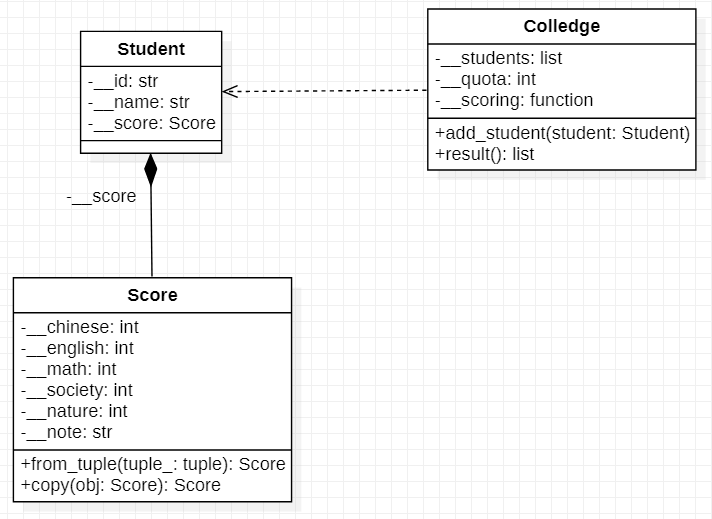
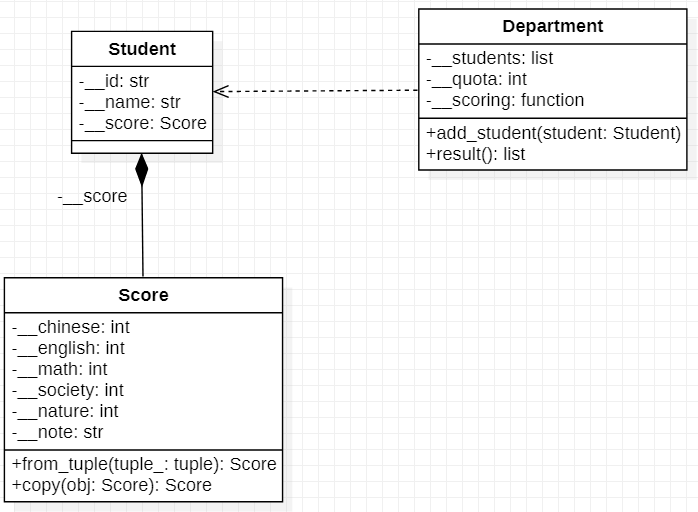
update p3

Changed region(s): [[0.0903, 0.0, 0.9928, 0.4062], [0.0, 0.5312, 0.4212, 1.0], [0.1805, 0.4062, 0.2407, 0.5]]

diff --git a/sample_code/p3/student.py b/sample_code/p3/student.py
@@ -1,0 +1,113 @@
+class Score:
+    def __init__(self, chinese, english, math, society, nature, note=''):
+        self.__chinese = chinese
+        self.__english = english
+        self.__math = math
+        self.__society = society
+        self.__nature = nature
+        self.__note = note
+        
+    @classmethod
+    def from_tuple(cls, tuple_):
+        return cls(*tuple_)
+    
+    @classmethod
+    def copy(cls, obj):
+        return cls(
+            obj.chinese,
+            obj.english,
+            obj.math,
+            obj.society,
+            obj.nature,
+            obj.note
+        )
+    
+    @property
+    def chinese(self): return self.__chinese
+    
+    @property
+    def english(self): return self.__english
+    
+    @property
+    def math(self): return self.__math
+    
+    @property
+    def society(self): return self.__society
+    
+    @property
+    def nature(self): return self.__nature
+    
+    @property
+    def note(self): return self.__note
+    
+    
+class Student:
+    def __init__(self, id, name, score):
+        self.__id = id
+        self.__name = name
+        self.__score = score
+        
+    @classmethod
+    def from_score_tuple(cls, id, name, tuple_):
+        return cls(id, name, Score.from_tuple(tuple_))
+    
+    # Override
+    def __str__(self):
+        return ('===================\n' +
+                'Score of GSAT      \n' +
+                '-------------------\n' +
+                'Name: %s           \n'%(self.__name) +
+                '  Id: %s           \n'%(self.__id) +
+                '                   \n' +
+                'Chinese: %d        \n'%(self.__score.chinese) +
+                'English: %d        \n'%(self.__score.english) +
+                '   Math: %d        \n'%(self.__score.math) +
+                'Society: %d        \n'%(self.__score.society) +
+                ' Nature: %d        \n'%(self.__score.nature) +
+                '===================\n'
+        )
+        
+    @property
+    def id(self): return self.__id
+    
+    @property
+    def name(self): return self.__name
+    
+    @property
+    def score(self): return Score.copy(self.__score)
+    
+    @property
+    def chinese(self): return self.__score.chinese
+    
+    @property
+    def english(self): return self.__score.english
+    
+    @property
+    def math(self): return self.__score.math
+    
+    @property
+    def society(self): return self.__score.society
+    
+    @property
+    def nature(self): return self.__score.nature
+    
+    @property
+    def note(self): return self.__score.note
+    
+    
+if __name__ == '__main__':
+    score_1 = Score(10, 12, 8, 14, 10)
+    score_1_copy = Score.copy(score_1)
+    print(score_1, score_1_copy, score_1 is not score_1_copy)
+    
+    student_1 = Student('0000000', 'student_1', score_1)
+    print(student_1)
+    
+    tuple_ = (10, 10, 12, 11, 13)
+    score_2 = Score.from_tuple(tuple_)
+    student_2 = Student('11111111', 'ooooo', score_2)
+    print(student_2)
+    
+    tuple_ = (11, 8, 12, 11, 10)
+    student_3 = Student.from_score_tuple('22222222', 'xxx', tuple_)
+    print(student_3)

diff --git a/sample_code/p3/department.py b/sample_code/p3/department.py
@@ -1,0 +1,59 @@
+from student import Student
+
+class Department:
+    def __init__(self, quota, scoring):
+        self.__students = []
+        self.__quota = quota
+        self.__scoring = scoring
+        
+    def add_student(self, student):
+        self.__students.append(student)
+        
+    def result(self):
+        sorted_score = sorted(self.__students, key=lambda s: -self.__scoring(s))
+        admin_list = sorted_score[:self.__quota]
+        return [s.id for s in admin_list]
+    
+    @property
+    def students(self): return self.__students[:]
+    
+    @property
+    def quota(self): return self.__quota
+    
+
+def scoring_1(student:Student):
+    score = student.score
+    return (
+        score.chinese + 
+        score.english +
+        score.math    +
+        score.society +
+        score.nature
+    )
+    
+def scoring_2(student:Student):
+    score = student.score
+    return (
+        score.chinese     + 
+        score.english * 2 +
+        score.math * 4    +
+        score.nature * 2
+    )      
+    
+    
+if __name__ == '__main__':
+    
+    import random
+    
+    department_1 = Department(6, scoring_1)
+    department_2 = Department(5, scoring_2)
+    
+    score_list = [tuple([random.randint(1,15) for _ in range(5)]) for _ in range(10)]
+    student_list = [Student.from_score_tuple(i, i, t) for i, t in enumerate(score_list, 1130926)]
+    
+    for s in student_list:
+        department_1.add_student(s)
+        department_2.add_student(s)
+        
+    print(department_1.result())
+    print(department_2.result())

diff --git a/practises/practise-3.md b/practises/practise-3.md
@@ -9,27 +9,23 @@
 - 公布錄取名單。
 
 在這個練習中，假設入學分數只會依據學測分數進行加權決定錄取。
+
 ## 檔案結構
-本次的練習分成三個檔案：
+本次的練習分成 2 個檔案：
 ```
 p3
 ├-- student.py
-├-- college.py
-├-- main.py
-└-- data
-    ├-- college.json
-    └-- student.json
+└-- department.py
 ```
-- `student.py`: 定義 `class Student` 與 `class Score`。
-- `college.py`: 定義 `class College` 與其子類別。
-- `main.py` ： 用來模擬主要流程。
 
-## 程式設計
+`student.py` 包含 `class Score`, `class Student`；
+`department.py` 包含 `class Department`。
+
 ### UML 類別圖
 ![](img/p3_uml.png)
 
-### Step 1. 完成 `student.py`
-#### 1.1 完成 `class Score`
+## Step 1. 完成 `student.py`
+### 1.1 完成 `class Score`
 定義 `class Score`，該類別具有以下的 **Instance Attributes**:
 - `__chinese: int`: 國文的分數。
 - `__english: int`: 英文的分數。
@@ -100,7 +96,7 @@ class Score:
     ...
 ```
 
-#### 1.2 完成 `class Student`
+### 1.2 完成 `class Student`
 `class Student` 有以下的 **Instance Attributes**
 - `__id: str`: 准考證號碼。
 - `__name: str`: 考生性名。
@@ -113,12 +109,11 @@ class Score:
 > 在英文的語感為 "class `Student` owns class `Score`"。
 
 `Student` 具有下列的 **Class Methods**:
-- `from_score_tuple(id: str, name: str, tuple_: tuple) -> Student`: 依照 `tuple_` 製造 `Student` 物件。
+- `from_score_tuple(id: str, name: str, tuple_: tuple) -> Student`: 
+  依照 `tuple_` 製造 `Student` 物件。
   `tuple_` 的元素第 0~4 項依序代表 `score.__chinese`, `score.__english`, `score.__math`,
   `score.__math`, `score.__society`, `score.__nature`；
   若有第 5 項則該項代表 `score.__note`。
-
-- `from_score(id: str, name: str, score: Score) -> Student`: 利用 `Score` 實體建立 `Student` 實體。
 
 `class Student` **複寫** (**Override**) 以下的實體方法：
 - `__str__() -> str`: 以字串回傳考生資訊。字串的格式如下：
@@ -148,7 +143,7 @@ Society: 8
 > ```python
 > class MyClass:
 >     def __init__(self, a, b)
->         self.__a, self,__b = a, b
+>         self.__a, self.__b = a, b
 > 
 >     def __str__(self):
 >         return '__a: %d, __b: %d'%(self.__a, self.__b)
@@ -158,16 +153,16 @@ Society: 8
 > ```
 
 參考下表，利用 `@property` 定義出相對應的 getter/setter。
-|property   |getter               |setter|
-|-----------|---------------------|------|
-|`id`       |`__id`               | X    |
-|`name`     |`__name`             | X    |
-|`score`    |the copy of `__score`| X    |
-|`chinese`  |`__score.chinese`    | X    |
-|`english`  |`__score.english`    | X    |
-|`math`     |`__score.math`       | X    |
-|`society`  |`__score.society`    | X    |
-|`nature`   |`__score.nature`     | X    |
+|property   |attribute            |getter|setter|
+|-----------|---------------------|------|------|
+|`id`       |`__id`               | O    | X    |
+|`name`     |`__name`             | O    | X    |
+|`score`    |the copy of `__score`| O    | X    |
+|`chinese`  |`__score.chinese`    | O    | X    |
+|`english`  |`__score.english`    | O    | X    |
+|`math`     |`__score.math`       | O    | X    |
+|`society`  |`__score.society`    | O    | X    |
+|`nature`   |`__score.nature`     | O    | X    |
 
 > [!CAUTION]
 > 被複合的對象定義為私有，若在 getter 直接回傳
@@ -206,7 +201,7 @@ Society: 8
 >     def a(self): return A.copy(self.__a)
 > ```
 
-#### 1.3 在 `student.py` 撰寫 `if __name__ == '__main__`:
+### 1.3 在 `student.py` 撰寫 `if __name__ == '__main__`:
 在 `if __name__ == '__main__` 中，請依流程執行：
 1. 利用 `Score.__init__()` 建立 `score_1`。
 2. 利用 `Score.copy()` 將 `score_1` 生拷貝到 `score_1_copy`。
@@ -215,5 +210,54 @@ Society: 8
    ```
    <__main__.Score object at 0x000001F58E733F50>
    ```
-4. 利用 `Score.from_tuple()` 建立 `score_2`
-5. 利用 `Student.__init__()`
+4. 印出 `score_1 is not score_1_copy` 並觀察其結果。
+5. 利用 `Student.__init__()` 建立 `student_1`，其分數為 `score_1`。
+   預期輸出為 `True`。
+6. 印出 `student_1`。
+7. 建立一個包含 5 個數字的 tuple，然後利用 `Score_2.from_tuple()` 建立 `score_2`。
+8. 建立 `student_2` 其分數為 `score_2`，接著印出 `student_2`。
+9. 建立一個包含 5 個數字的 tuple，然後利用 `Student.from_score_tuple()` 建立 `student_3`
+  接著印出 `student_3`。
+
+## Step 2. 完成 `Department.py`
+### Step 2.1 完成 `class Department`
+建立 `class Department`，該類別有以下 **Instance Attribute**
+- `__students: list`: 申請該學系的學生名單。
+- `__quota: int`: 預計錄取的人數。
+- `__scoring: function`: 評分方式。
+
+`class Department.__init__` 的引數為 `(quota, scoring=sum)`，並作以下的初始化：
+- `__students: list` 為空 list。
+- `__quota` 設定為 `quota`
+- `__scoring` 設定為 `scoring`
+
+> [!NOTE]
+> 你需要把 `student.py` 的程式碼引用到這份檔案裡。
+> 下面的範例中 `b.py` 引用了 `a.py` 中的 `MyClass`，
+> 這兩個檔案在同一個資料夾，且我們預計會從 `b.py` 執行
+> （雖然這不是正式的專案結構）。
+> ```python
+> # src/a.py
+> class MyClass:
+>     ...
+> ```
+> ```python
+> # src/b.py
+> from a import MyClass
+> ```
+
+
+`class Department` 有以下的 **Inatance Methods**:
+- `add_student(student: Student)`: 新增申請該科系的學生
+- `result() -> list`: 產生錄取准考證號碼名單。
+
+### Step 2.2 撰寫 2 種計分方式
+寫 2 個函數 `scoring_1(student:Student)->int` 和 `scoring_2(student:Student)->int`。
+前者計算方式為「所有科目加總」，後者加權方式為國文 1、英文 2、數學 4、自然 2。
+
+### Step 2.3 在 `department.py` 撰寫 `if __name__ == '__main__'`
+1. 建立 `department_1`，錄取人數為 6、評分方式為 `scoring_1`。
+2. 建立 `department_1`，錄取人數為 5、評分方式為 `scoring_5`。
+3. 生成出 10 考生資訊，你可以用任何方法建立。
+4. 所有的學生都申請 `department_1` 和 `department_2`。
+5. 印出 `department_1` 和 `department_2` 的名單。
